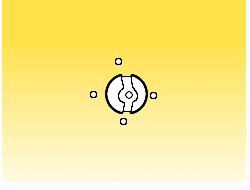
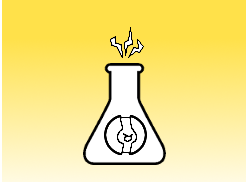
Updated Unstable Compound art

Changed region(s): [[0.308, 0.1579, 0.672, 0.8684], [0.364, 0.4737, 0.392, 0.5263]]

diff --git a/TheM10Robot/src/main/java/M10Robot/cards/UnstableCompound.java b/TheM10Robot/src/main/java/M10Robot/cards/UnstableCompound.java
@@ -17,7 +17,7 @@ public class UnstableCompound extends AbstractDynamicCard {
     // TEXT DECLARATION
 
     public static final String ID = M10RobotMod.makeID(UnstableCompound.class.getSimpleName());
-    public static final String IMG = makeCardPath("UnstableCompound2.png");
+    public static final String IMG = makeCardPath("UnstableCompound.png");
 
     // /TEXT DECLARATION/
 
